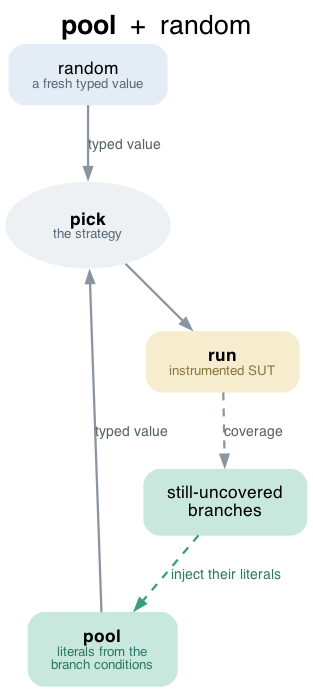
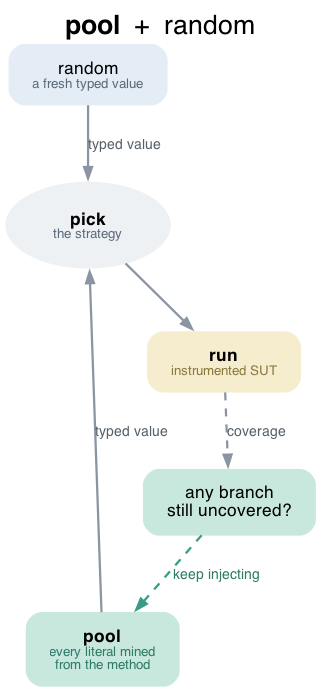
Pool mines the whole method body, not just branch conditions
Over-approximate rather than risk missing a literal: collect every literal in
the method (ParsedMethod.pool) instead of attributing them to the guard /
scrutinee / pattern they sit in. A literal that fits no branch is just a wasted
draw; in exchange the mining can never miss one (e.g. lookupRole's "admin").

This retires the per-arm literal plumbing: Arm drops its literals field,
BranchTree.leafLiterals is gone, and the pool tactic now injects the method's
pool while any leaf is still uncovered (standing down once all are covered —
its coverage-guided handle). Diagram wording updated to match.

diff --git a/docs/scripts/strategies.py b/docs/scripts/strategies.py
@@ -40,12 +40,12 @@ POOL = f"""digraph pool {{
   {STYLE}
   label=<<b>pool</b>  +  random>;
   {_rand()}
-  pool [label=<<b>pool</b><br/><font point-size="10" color="{TEAL_A}">literals from the<br/>branch conditions</font>>, fillcolor="{TEAL}"];
-  cov  [label=<still-uncovered<br/>branches>, fillcolor="{TEAL}"];
+  pool [label=<<b>pool</b><br/><font point-size="10" color="{TEAL_A}">every literal mined<br/>from the method</font>>, fillcolor="{TEAL}"];
+  cov  [label=<any branch<br/>still uncovered?>, fillcolor="{TEAL}"];
   {_common()}
   rand -> pick [label="typed value"]; pool -> pick [label="typed value"];
   pick -> run; run -> cov [label="coverage", style=dashed];
-  cov -> pool [label="inject their literals", style=dashed, color="{TEAL_E}", fontcolor="{TEAL_A}"];
+  cov -> pool [label="keep injecting", style=dashed, color="{TEAL_E}", fontcolor="{TEAL_A}"];
 }}"""
 
 MUTATION = f"""digraph mutation {{
@@ -84,7 +84,7 @@ COMBINED = f"""digraph combined {{
   {{ rank=same; rand; pool; mut; grad; }}
   rand -> pick [label="typed value"]; pool -> pick; mut -> pick; grad -> pick;
   pick -> run; run -> cov [style=dashed];
-  cov -> pool [label="uncovered → literals", style=dashed, color="{TEAL_E}",  fontcolor="{TEAL_A}"];
+  cov -> pool [label="inject while uncovered", style=dashed, color="{TEAL_E}",  fontcolor="{TEAL_A}"];
   cov -> mut  [label="keep if new",          style=dashed, color="{ORANGE_E}", fontcolor="{ORANGE_A}"];
   cov -> grad [label="keep the closest",      style=dashed, color="{ROSE_E}",   fontcolor="{ROSE_A}"];
 }}"""